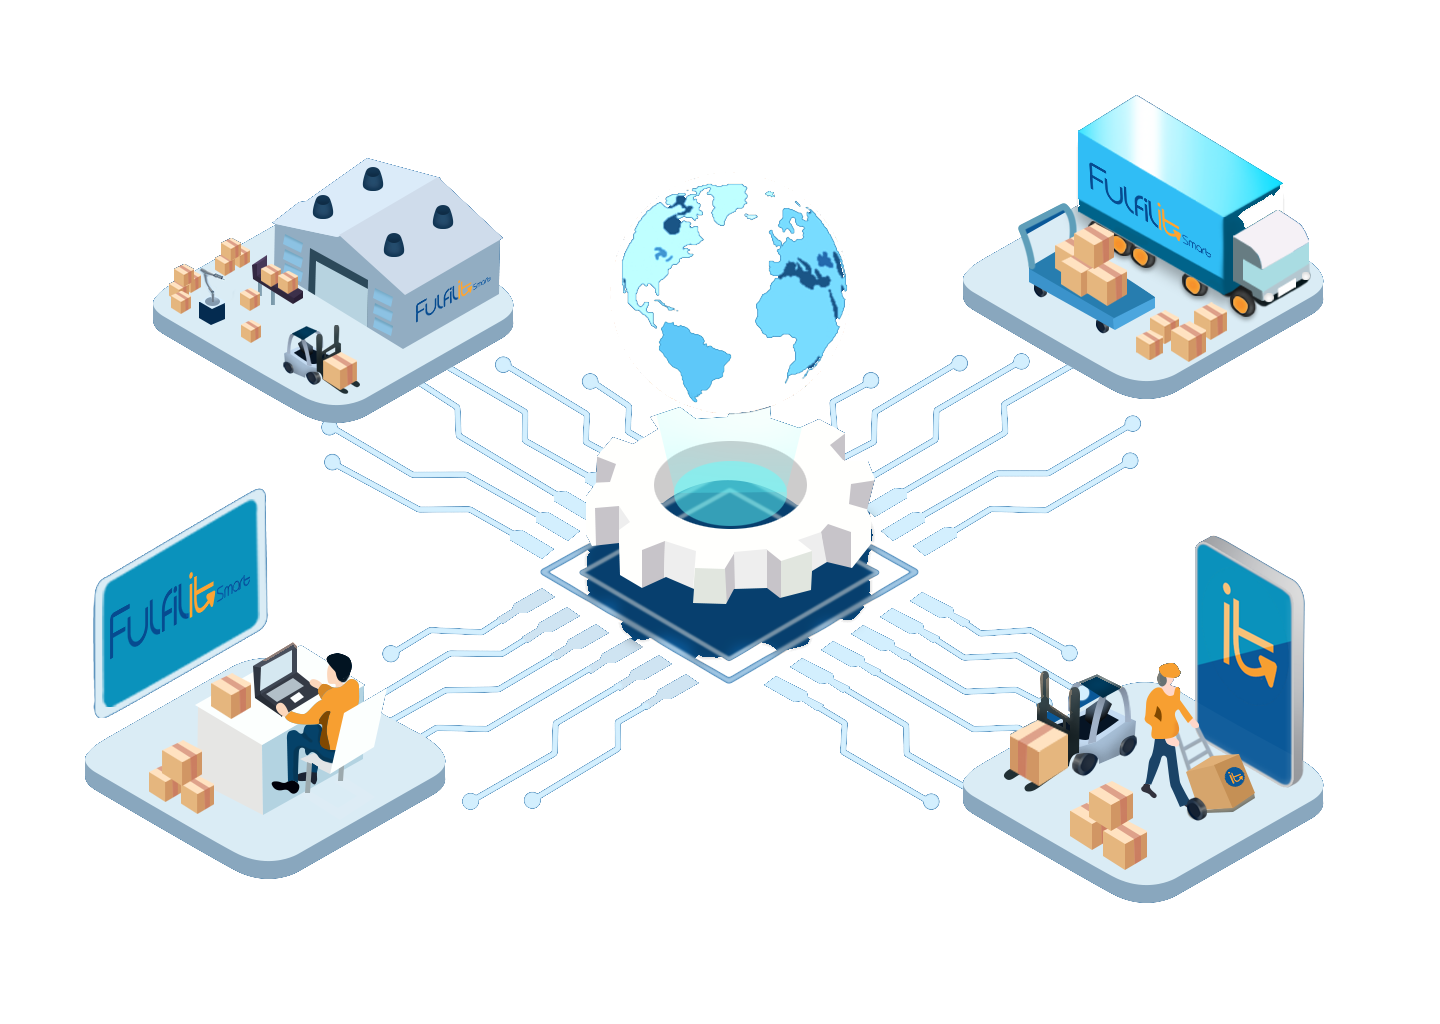
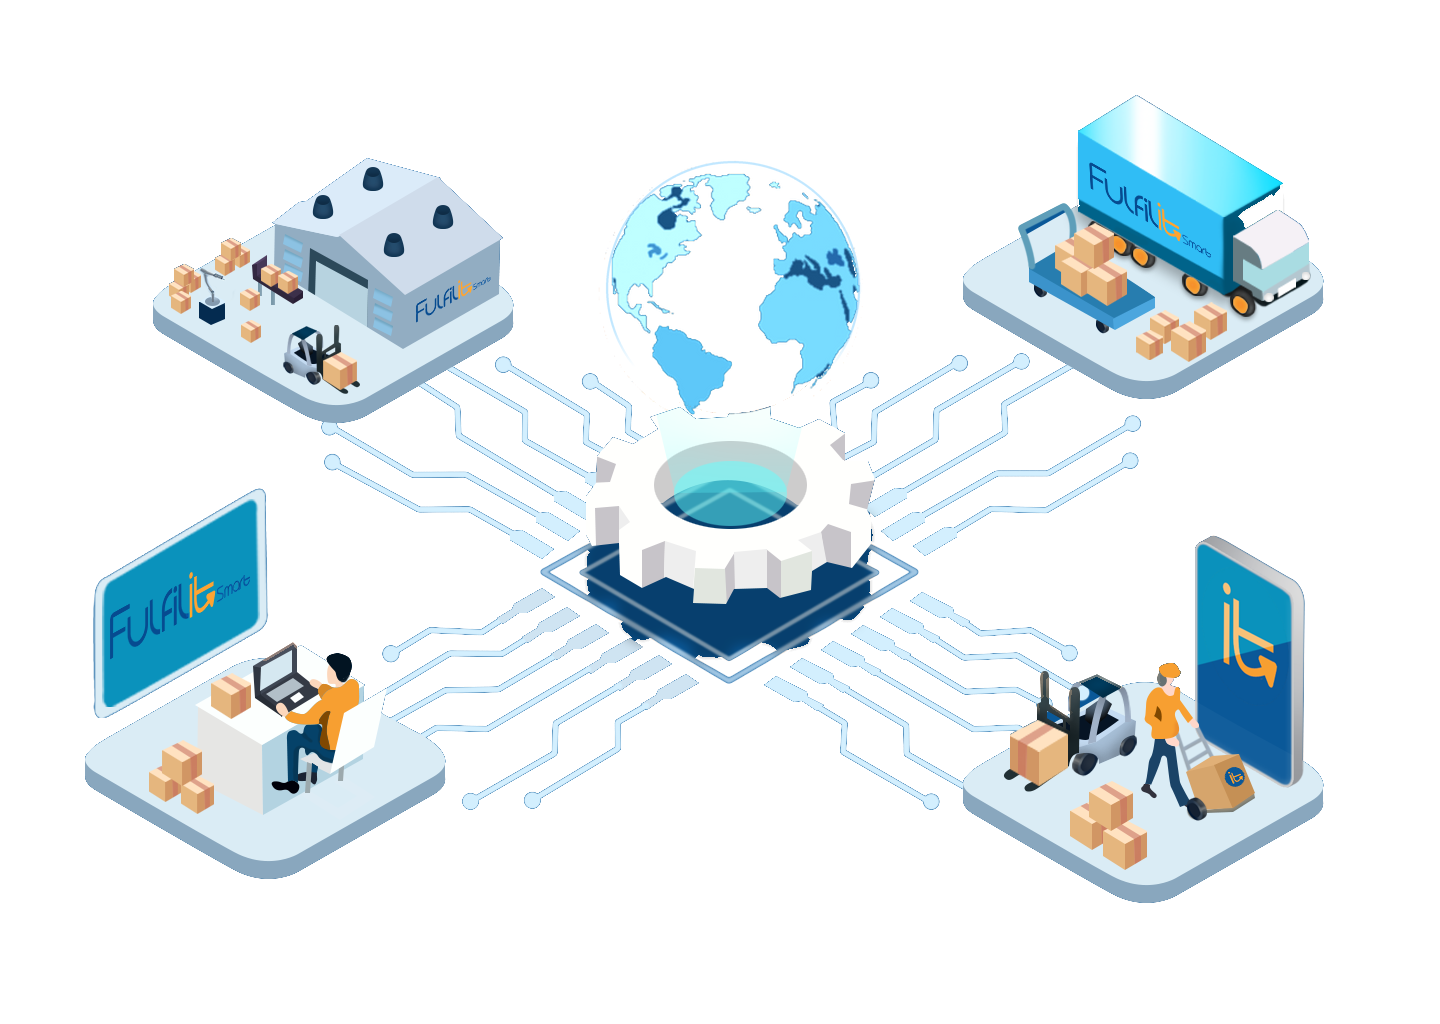
make a lot of styling changes

Changed region(s): [[0.4062, 0.1562, 0.5938, 0.4062]]

diff --git a/components/our-brands-section.tsx b/components/our-brands-section.tsx
@@ -4,7 +4,7 @@ import { useRef, useEffect } from "react";
 import Image from "next/image";
 import { Badge } from "@/components/ui/badge";
 import { Button } from "@/components/ui/button";
-import { ArrowRight, Building2 } from "lucide-react";
+import { ArrowRight } from "lucide-react";
 import { gsap } from "gsap";
 import { ScrollTrigger } from "gsap/ScrollTrigger";
 
@@ -21,7 +21,8 @@ const brands = [
   {
     id: 1,
     name: "Ship itSmart",
-    logo: "/shipitsmart.svg",
+    logo: "/logos/ship-itsmart-card.png",
+    tagline: "Be Smart, Ship itSmart",
     description:
       "The world's leading brands trust ShipItSmart to streamline their shipping operations with unparalleled speed and precision. Our platform connects you to global carriers, optimizes routes, and provides real-time tracking—making international shipping smarter and more efficient.",
     color: "bg-gradient-to-br from-[#EB993C] to-[#d88730]",
@@ -32,7 +33,8 @@ const brands = [
   {
     id: 2,
     name: "Freight itSmart",
-    logo: "/frieghtit.svg",
+    logo: "/logos/freight-itsmart-card.png",
+    tagline: "Be Smart, Freight itSmart",
     description:
       "FreightItSmart is revolutionizing freight logistics, connecting businesses to top freight carriers and services with a single integration. Smart routing algorithms, advanced optimization, and comprehensive tracking make heavy cargo transportation faster, leaner, and more cost-effective.",
     color: "bg-gradient-to-br from-[#14529f] to-[#0f3c75]",
@@ -43,7 +45,8 @@ const brands = [
   {
     id: 3,
     name: "Return itSmart",
-    logo: "/returnit.svg",
+    logo: "/logos/return-itsmart-card.png",
+    tagline: "Be Smart, Return itSmart",
     description:
       "ReturnItSmart transforms the returns process into a competitive advantage. Our intelligent reverse logistics platform streamlines return authorization, optimizes return routing, and maximizes recovery value—turning returns from a cost center into a customer satisfaction driver.",
     color: "bg-gradient-to-br from-[#EB993C] to-[#d88730]",
@@ -54,7 +57,8 @@ const brands = [
   {
     id: 4,
     name: "Fulfill itSmart",
-    logo: "/fufillit.svg",
+    logo: "/logos/fulfill-itsmart-card.png",
+    tagline: "Be Smart, Fulfill itSmart",
     description:
       "FulfillItSmart is the ultimate fulfillment solution, seamlessly integrating order processing, inventory management, and distribution. From order to delivery, our platform ensures accurate, fast, and cost-effective fulfillment that scales with your business growth.",
     color: "bg-gradient-to-br from-[#14529f] to-[#0f3c75]",
@@ -165,12 +169,16 @@ export default function OurBrandsSection() {
                 <div className="flex h-full w-full flex-col justify-center p-6 sm:p-8 md:p-10 lg:p-12 xl:p-14">
                   <div className={brand.textColor}>
                     <div className="mb-4 sm:mb-5 md:mb-6">
-                      <div className="flex items-center gap-3 md:gap-4">
-                        <Building2 className="h-7 w-7 sm:h-8 sm:w-8 md:h-9 md:w-9 lg:h-10 lg:w-10 opacity-80" />
-                        <h3 className="text-xl sm:text-2xl md:text-3xl lg:text-[2.6rem] xl:text-[3rem] font-bold tracking-tight leading-tight">
-                          {brand.name}
-                        </h3>
-                      </div>
+                      <h3 className="sr-only">{brand.name}</h3>
+                      <Image
+                        src={brand.logo}
+                        alt={`${brand.name} logo`}
+                        width={1480}
+                        height={390}
+                        priority={i === 0}
+                        sizes="(min-width: 1280px) 320px, (min-width: 768px) 240px, 180px"
+                        className="h-10 w-auto object-contain sm:h-12 md:h-14 lg:h-16 xl:h-20"
+                      />
                     </div>
                     <p className="text-[11px] sm:text-xs md:text-sm lg:text-base xl:text-[1.05rem] leading-relaxed opacity-90 mb-5 sm:mb-6 max-w-4xl">
                       {brand.description}
@@ -192,17 +200,9 @@ export default function OurBrandsSection() {
                         </a>
                       </Button>
                     </div>
-                    <div className="mt-3 sm:mt-4">
-                      <div className="inline-flex items-center rounded-xl bg-white px-4 py-2.5 shadow-lg sm:px-5 sm:py-3">
-                        <Image
-                          src={brand.logo}
-                          alt={`${brand.name} logo`}
-                          width={220}
-                          height={60}
-                          className="h-7 w-auto object-contain sm:h-8 md:h-9 lg:h-10"
-                        />
-                      </div>
-                    </div>
+                    <p className="mt-4 text-sm font-semibold italic tracking-wide opacity-90 sm:mt-5 sm:text-base md:text-lg">
+                      {brand.tagline}
+                    </p>
                   </div>
                 </div>
 

diff --git a/app/quote/page.tsx b/app/quote/page.tsx
@@ -97,26 +97,35 @@ export default function QuotePage() {
   const benefitsRef = useRef<HTMLDivElement>(null);
 
   useEffect(() => {
+    const reveal = (target: Element) => {
+      if (target === headerRef.current) setIsHeaderVisible(true);
+      if (target === formRef.current) setIsFormVisible(true);
+      if (target === benefitsRef.current) setIsBenefitsVisible(true);
+    };
+
+    // Reveal anything already on screen at load so the page doesn't sit
+    // invisible until the user scrolls (the form is much taller than the
+    // viewport, so a percentage threshold never triggers on its own).
+    const isInViewport = (el: Element) => {
+      const rect = el.getBoundingClientRect();
+      return rect.top < window.innerHeight && rect.bottom > 0;
+    };
+
     const observer = new IntersectionObserver(
       (entries) => {
         entries.forEach((entry) => {
-          if (entry.target === headerRef.current && entry.isIntersecting) {
-            setIsHeaderVisible(true);
-          }
-          if (entry.target === formRef.current && entry.isIntersecting) {
-            setIsFormVisible(true);
-          }
-          if (entry.target === benefitsRef.current && entry.isIntersecting) {
-            setIsBenefitsVisible(true);
-          }
+          if (entry.isIntersecting) reveal(entry.target);
         });
       },
-      { threshold: 0.3 },
+      { threshold: 0.05 },
     );
 
-    if (headerRef.current) observer.observe(headerRef.current);
-    if (formRef.current) observer.observe(formRef.current);
-    if (benefitsRef.current) observer.observe(benefitsRef.current);
+    [headerRef, formRef, benefitsRef].forEach((ref) => {
+      const el = ref.current;
+      if (!el) return;
+      if (isInViewport(el)) reveal(el);
+      observer.observe(el);
+    });
 
     return () => observer.disconnect();
   }, []);
